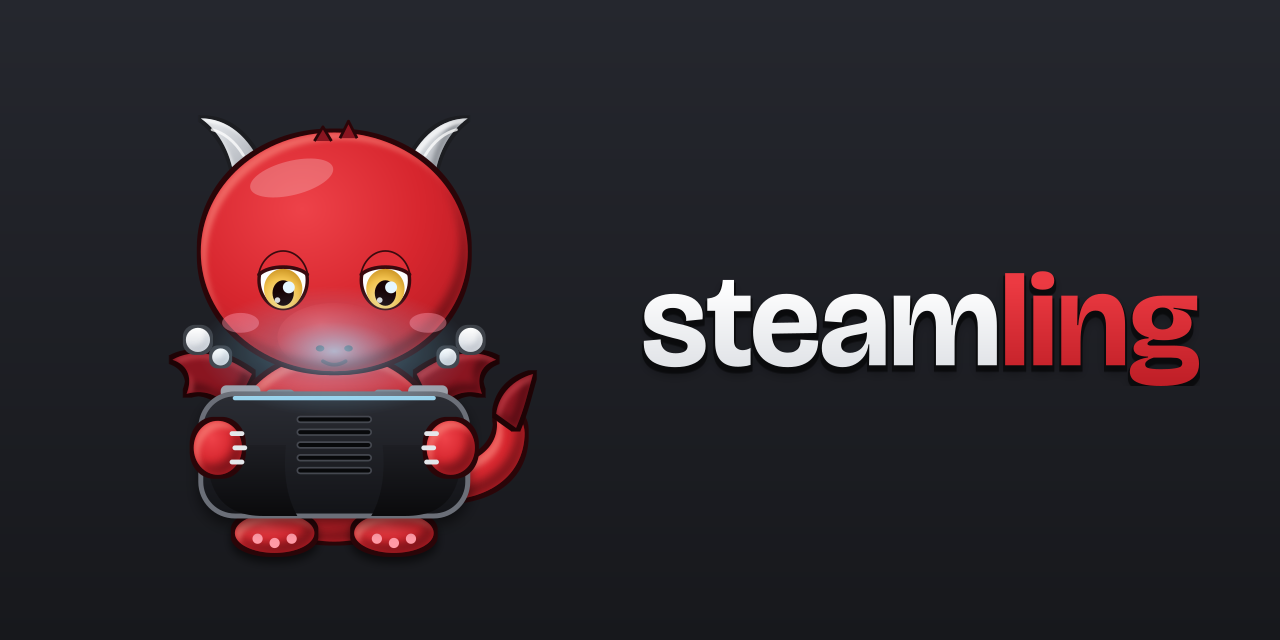
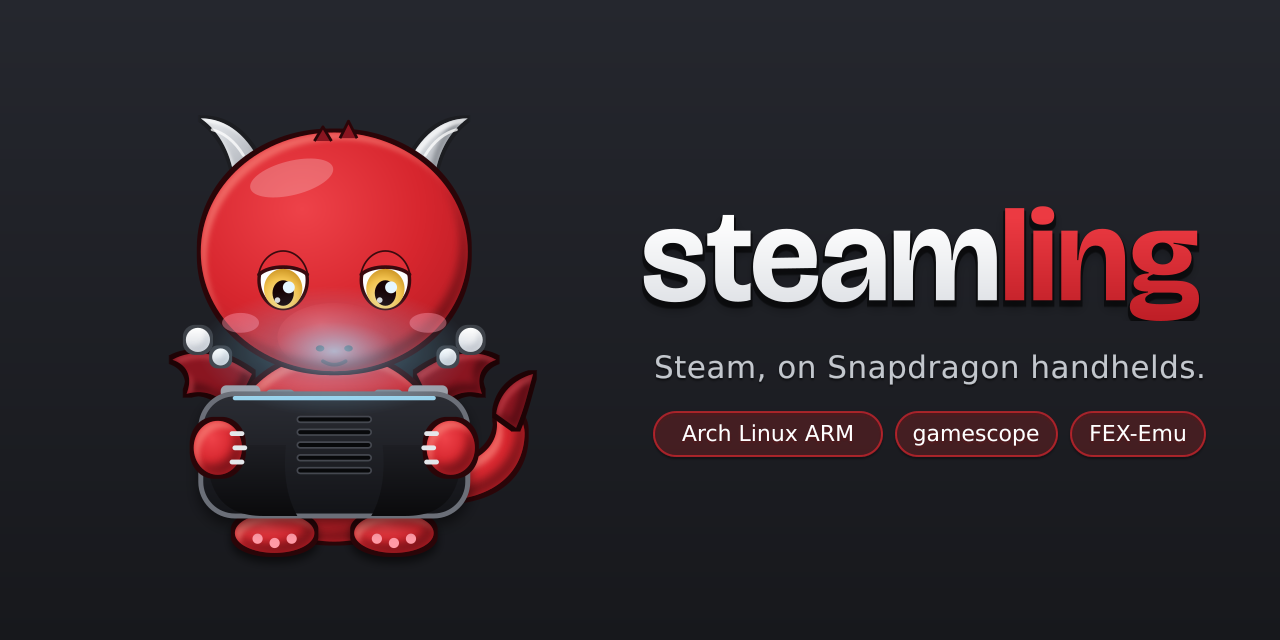
docs: bring back the tagline and feature pills on the social preview
The redraw dropped them along with the old hand-drawn banner. The banner
generator now writes "Steam, on Snapdragon handhelds." under the wordmark
and the Arch Linux ARM / gamescope / FEX-Emu pills under that, each pill
sized to its label.

Changed region(s): [[0.5, 0.3125, 0.9688, 0.7188]]

diff --git a/scripts/render-branding.py b/scripts/render-branding.py
@@ -47,17 +47,44 @@ def logo(tile):
             + inner(BRAND / "steamling-wordmark.svg", 105, 358, 270, 56) + "\n</svg>\n")
 
 
+# What the banner says under the wordmark, and the pills naming what Steamling is built on.
+TAGLINE = "Steam, on Snapdragon handhelds."
+PILLS = ["Arch Linux ARM", "gamescope", "FEX-Emu"]
+FONT = 'font-family="DejaVu Sans, Helvetica, Arial, sans-serif"'
+
+
+def pills(x, y):
+    """A row of rounded labels from x, sized to their text (~13.4 px a character at 22 px, plus padding)."""
+    out = []
+    for name in PILLS:
+        w = round(len(name) * 13.4 + 40)
+        out.append(f'  <rect x="{x}" y="{y}" width="{w}" height="44" rx="22" fill="#D7262E" '
+                   'fill-opacity=".18" stroke="#D7262E" stroke-opacity=".7" stroke-width="2"/>\n'
+                   f'  <text x="{x + w // 2}" y="{y + 29}" text-anchor="middle">{name}</text>\n')
+        x += w + 14
+    return "".join(out)
+
+
 def social():
     return ('<?xml version="1.0" encoding="UTF-8"?>\n'
-            '<!-- GitHub social preview (1280x640): the steamling beside the wordmark. Generated by\n'
-            '     scripts/render-branding.py, which also writes steamling-social.png. -->\n'
+            '<!-- GitHub social preview (1280x640): the steamling beside the wordmark, the tagline and\n'
+            '     what it is built on. Generated by scripts/render-branding.py, which also writes\n'
+            '     steamling-social.png. -->\n'
             '<svg xmlns="http://www.w3.org/2000/svg" width="1280" height="640" viewBox="0 0 1280 640">\n'
             '  <defs><linearGradient id="field" x1="0" y1="0" x2="0" y2="1">'
             '<stop offset="0" stop-color="#25272E"/><stop offset="1" stop-color="#17181C"/>'
-            '</linearGradient></defs>\n'
+            '</linearGradient>\n'
+            '  <filter id="textShadow" x="-5%" y="-30%" width="110%" height="170%">'
+            '<feGaussianBlur in="SourceAlpha" stdDeviation="1.5"/><feOffset dy="2" result="b"/>'
+            '<feFlood flood-color="#000" flood-opacity="0.6"/><feComposite in2="b" operator="in" result="s"/>'
+            '<feMerge><feMergeNode in="s"/><feMergeNode in="SourceGraphic"/></feMerge></filter></defs>\n'
             '  <rect width="1280" height="640" fill="url(#field)"/>\n'
             + inner(BRAND / "steamling-figure.svg", 90, 70, 534, 500) + "\n"
-            + inner(BRAND / "steamling-wordmark.svg", 640, 270, 560, 116) + "\n</svg>\n")
+            + inner(BRAND / "steamling-wordmark.svg", 640, 205, 560, 116) + "\n"
+            + f'  <text x="654" y="378" {FONT} font-size="31" fill="#C3C7CD" letter-spacing="0.5" '
+              f'filter="url(#textShadow)">{TAGLINE}</text>\n'
+            + f'  <g {FONT} font-size="22" fill="#fff" filter="url(#textShadow)">\n'
+            + pills(654, 412) + "  </g>\n</svg>\n")
 
 
 OUTPUTS = {
